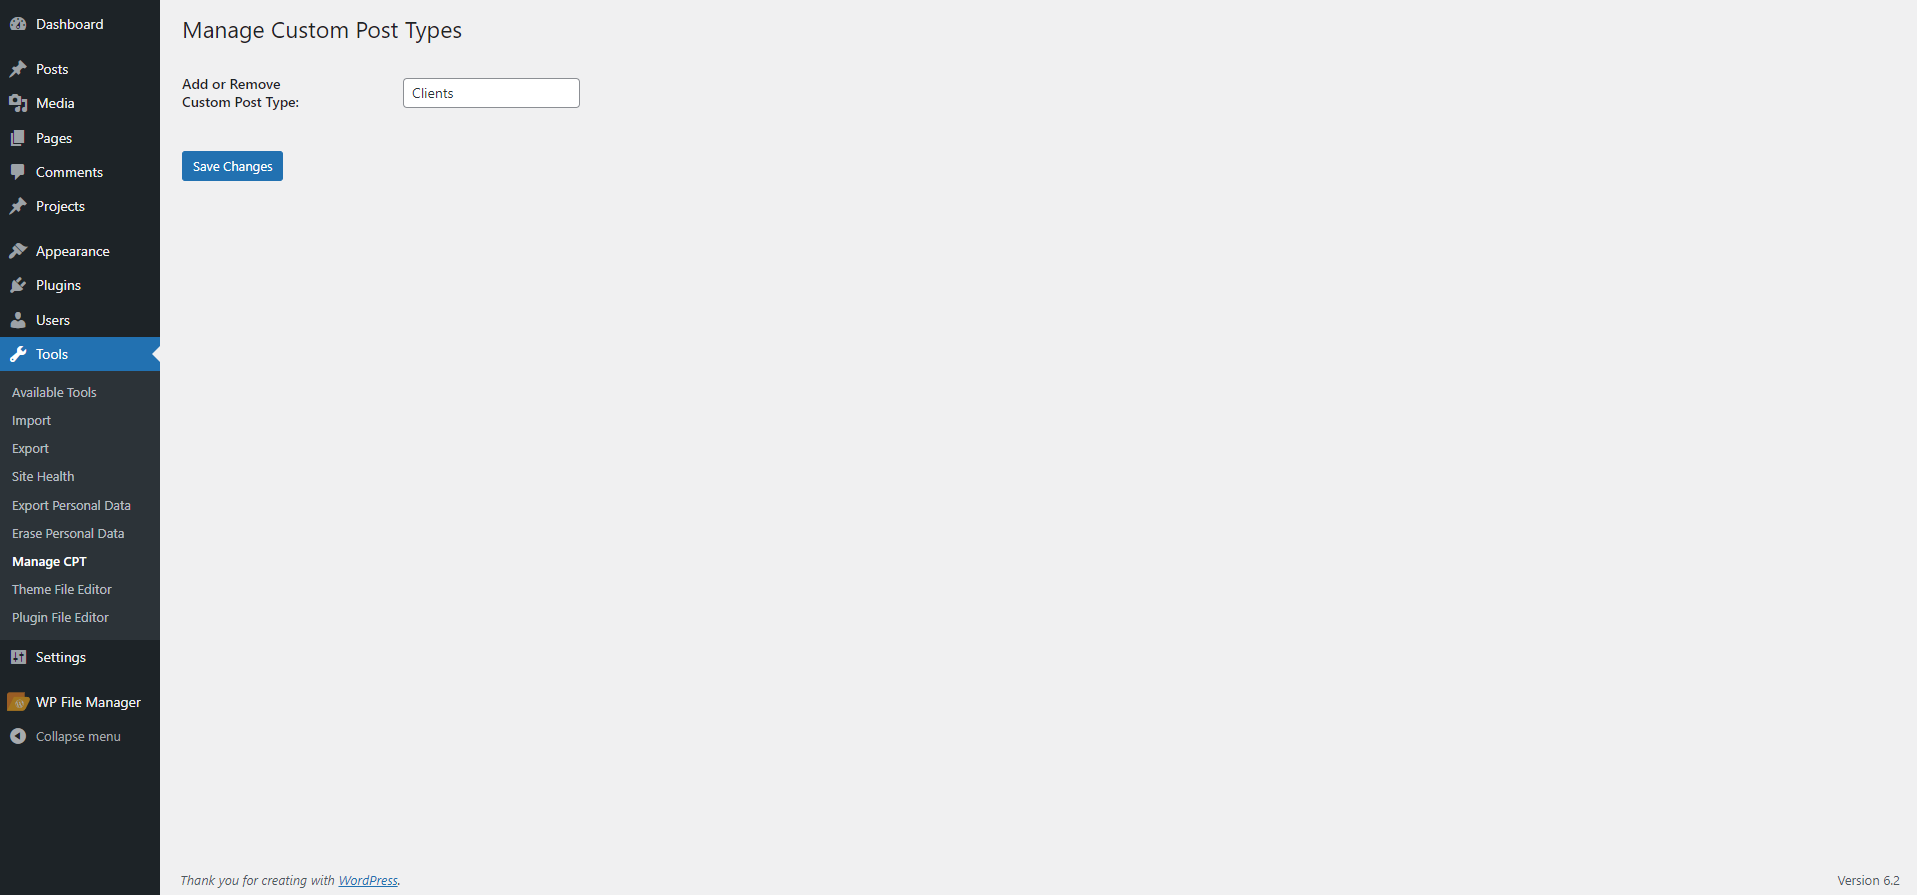
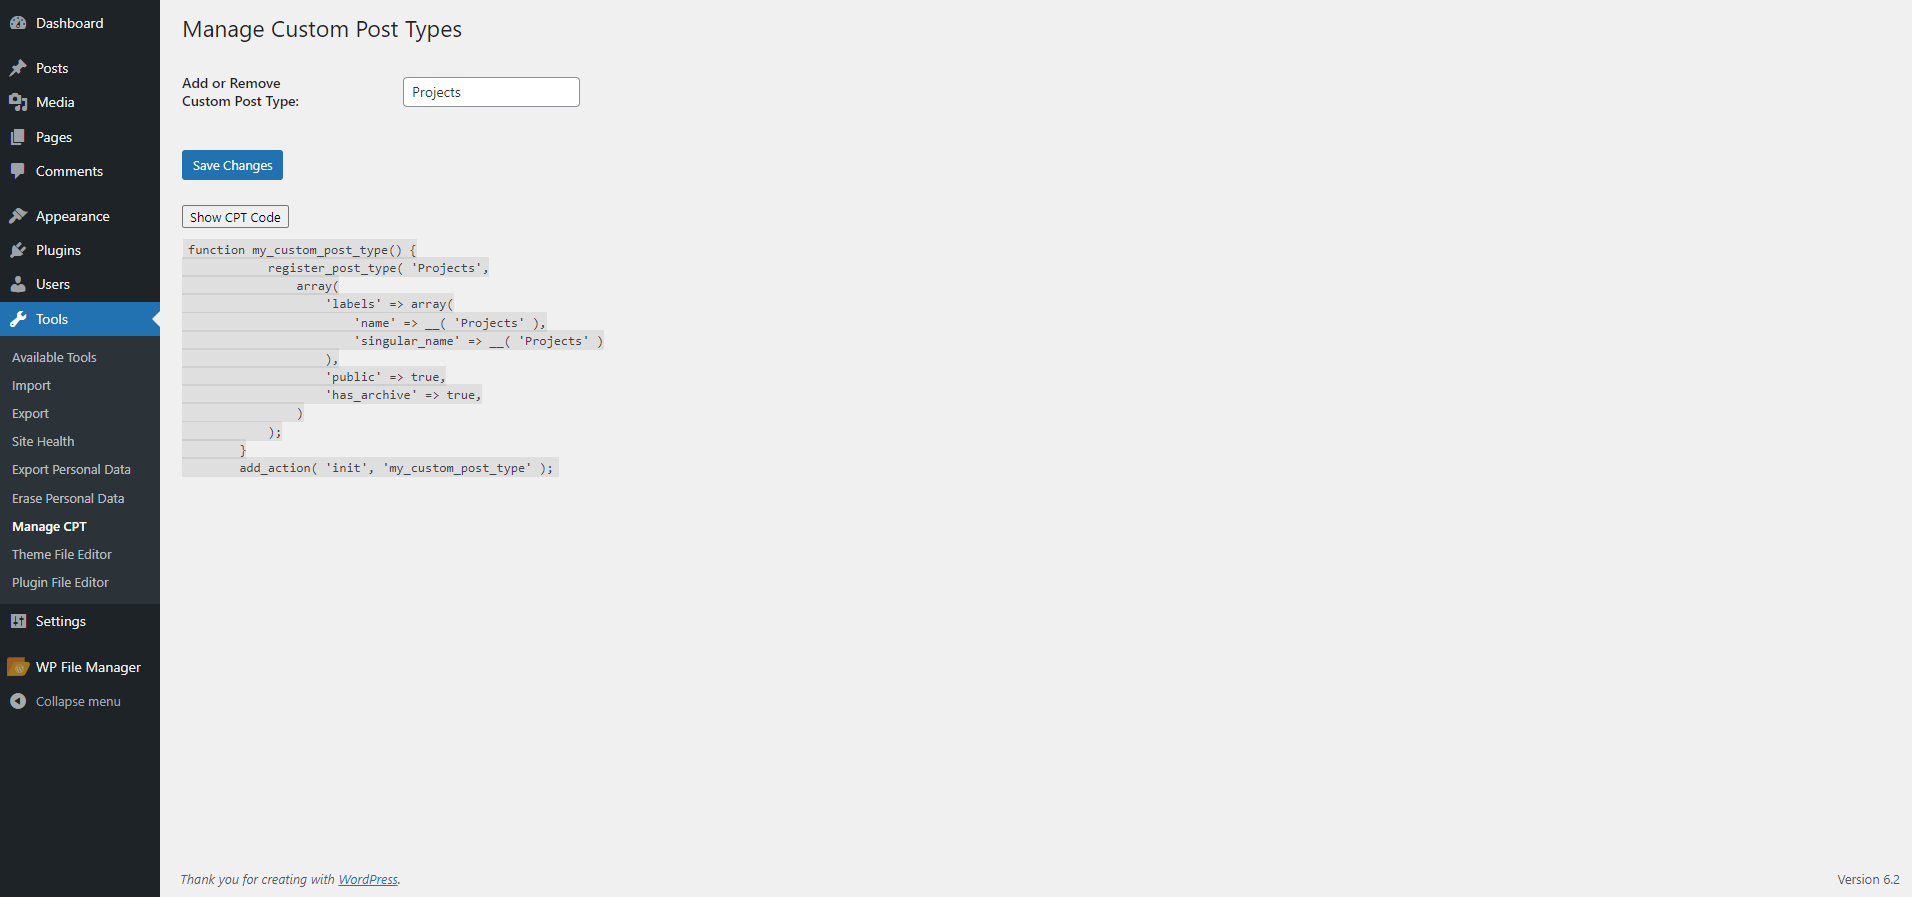
[+] Added feature to show code to add cpt to functions file for permanent placement.

diff --git a/simple-post-types.php b/simple-post-types.php
@@ -3,7 +3,7 @@
 Plugin Name: Simple Post Types
 Plugin URI: https://github.com/Matthewpco/WP-Plugin-Simple-Post-Types
 Description: Adds a new tab in the WordPress dashboard under Tools called Manage CPT where you can add or remove custom post types.
-Version: 1.5.0
+Version: 1.6.0
 Author: Gary Matthew Payne
 Author URI: https://wpwebdevelopment.com/
 */
@@ -54,7 +54,30 @@ function manage_cpt_page() {
 }
 
 
+// Display custom post type registration code
+function display_cpt_code() {
+    if (isset($_POST['new_cpt'])) {
+        $new_cpt = sanitize_text_field($_POST['new_cpt']);
+        $code = "function my_custom_post_type() {
+            register_post_type( '$new_cpt',
+                array(
+                    'labels' => array(
+                        'name' => __( '$new_cpt' ),
+                        'singular_name' => __( '$new_cpt' )
+                    ),
+                    'public' => true,
+                    'has_archive' => true,
+                )
+            );
+        }
+        add_action( 'init', 'my_custom_post_type' );";
+        echo "<pre><code>$code</code></pre>";
+    }
+	wp_die(); // Terminate script execution
+}
+
 // Hooks
 add_action('admin_menu', 'manage_cpt_menu');
 add_action('admin_post_register_cpt', 'manage_cpt_page');
+add_action('wp_ajax_display_cpt_code', 'display_cpt_code');
 add_action('init', 'my_register_cpts_on_init');

diff --git a/html/form-display.php b/html/form-display.php
@@ -16,11 +16,30 @@ function display_manage_cpt_page() {
             <table class="form-table">
                 <tr valign="top">
                     <th scope="row">Add or Remove<br>Custom Post Type:</th>
-                    <td><input type="text" name="new_cpt" value="" /></td>
+                    <td><input type="text" id="new-cpt" name="new_cpt" value="" /></td>
                 </tr>
             </table>
             <?php submit_button(); ?>
         </form>
+		<button id="show-cpt-code">Show CPT Code</button>
+		<div id="cpt-code"></div>
+		
+		
+		<script>
+			document.getElementById('show-cpt-code').addEventListener('click', function() {
+				var xhr = new XMLHttpRequest();
+				xhr.onreadystatechange = function() {
+					if (xhr.readyState == XMLHttpRequest.DONE) {
+						document.getElementById('cpt-code').innerHTML = xhr.responseText;
+					}
+				}
+				xhr.open('POST', '<?php echo admin_url('admin-ajax.php'); ?>', true);
+				xhr.setRequestHeader('Content-Type', 'application/x-www-form-urlencoded');
+				xhr.send('action=display_cpt_code&new_cpt=' + document.getElementById('new-cpt').value);
+			});
+		</script>
+		
+		
     </div>
     <?php
 }
